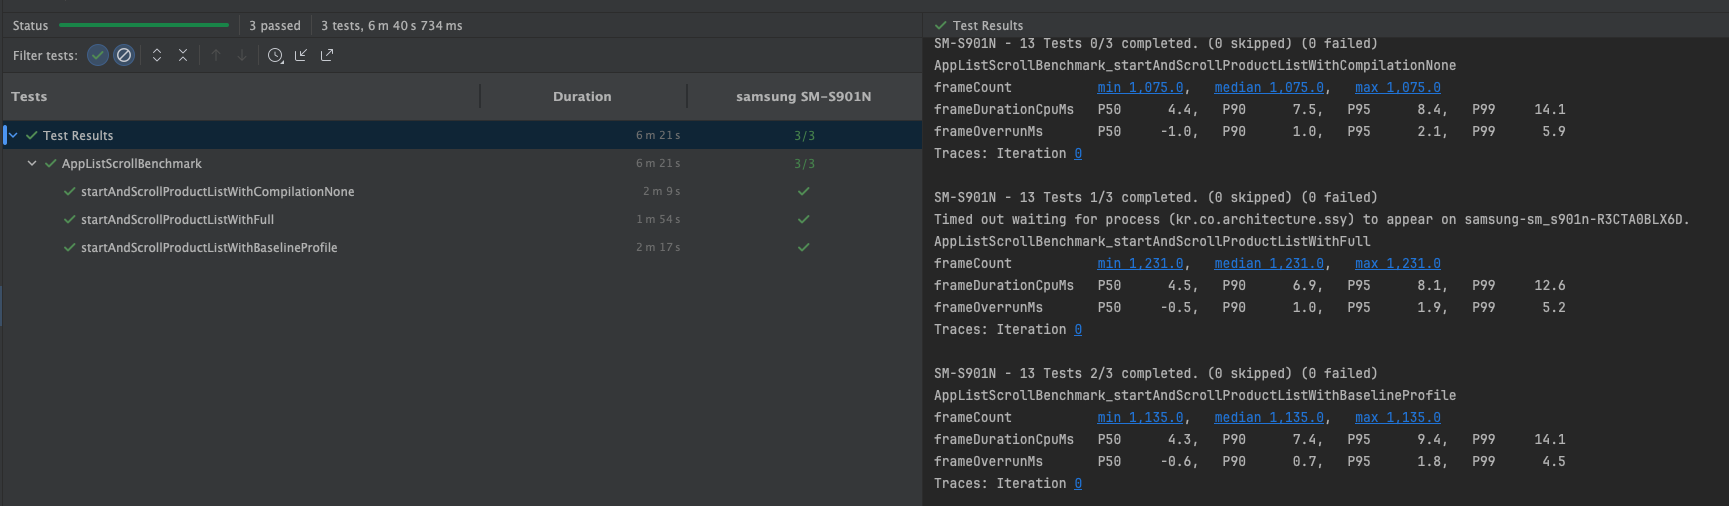
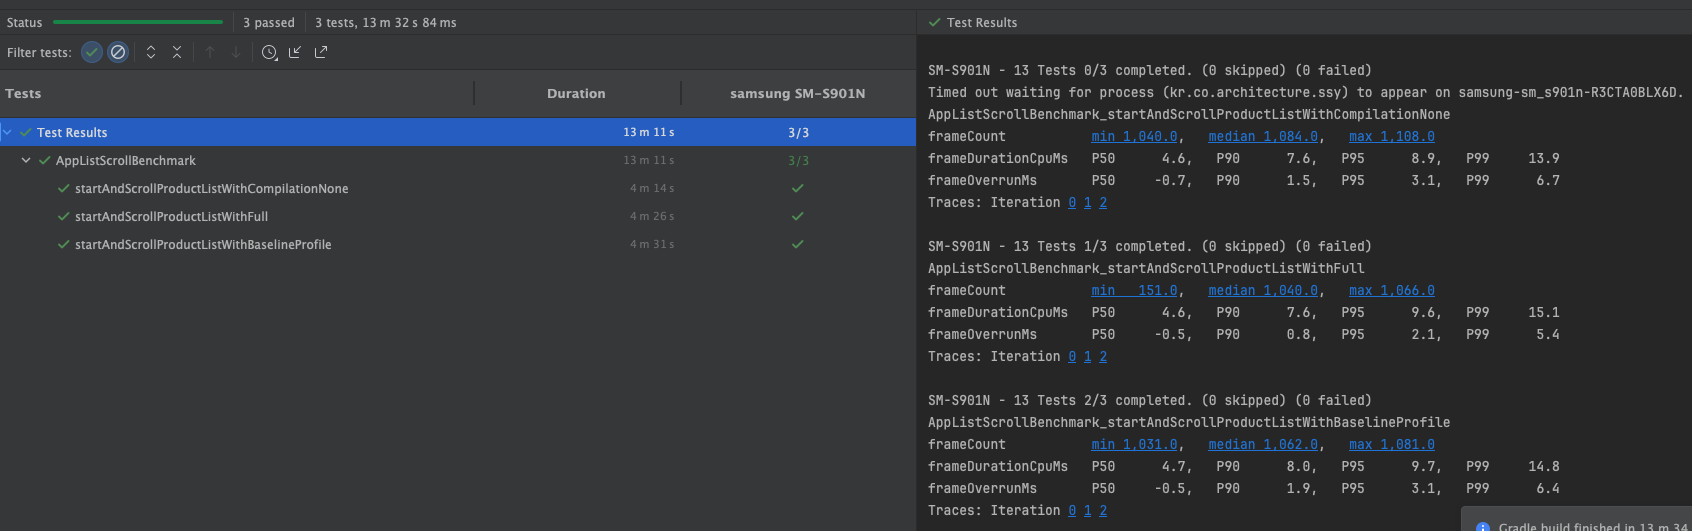
doc: readme수정

diff --git a/benchmarks/src/main/kotlin/kr/co/architecture/benchmarks/AppListScrollBenchmark.kt b/benchmarks/src/main/kotlin/kr/co/architecture/benchmarks/AppListScrollBenchmark.kt
@@ -32,7 +32,7 @@ class AppListScrollBenchmark {
     packageName = "kr.co.architecture.ssy",
     metrics = listOf(FrameTimingMetric()),
     compilationMode = compilationMode,
-    iterations = 1,
+    iterations = 3,
     startupMode = StartupMode.WARM,
     setupBlock = {
       pressHome()

diff --git a/readme.md b/readme.md
@@ -3,6 +3,7 @@
 2. 아키텍처 구조도
 3. 테스트 케이스
 4. BaselineProfile 성능 측정 결과
+5. 앱 시연 영상
 
 ## 1. 빌드 환경
 해다 과제가 실행된 빌드 환경을 의미합니다. 만약 과제 빌드에 문제가 있을 시, 아래 빌드 환경을 참고하시면 좋습니다.
@@ -43,5 +44,11 @@
 
 
 ## 4. BaselineProfile 성능 측정 결과
-홈 화면의 성능 개선을 위해 BaselineProfile 생성 후, 벤치마크를 측정한 결과입니다.
+홈 화면의 성능 개선을 위해 BaselineProfile 생성 후, 3회 반복을 통한 벤치마크 측정 결과입니다.
 ![BenchmarkResult.png](readme-img/BenchmarkResult.png)
+
+## 5. 앱 시연 영상
+
+### 1). 주요 기능 시연
+### 2). 부가 기능 시연 - 다크/화이트 모드 지원
+### 3). 부가 기능 시연 - 다양한 상황(NetworkConnection, API Error)에서의 에러 대응
